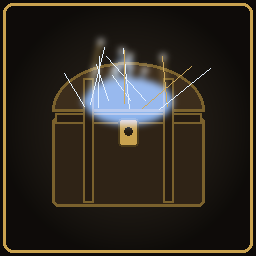
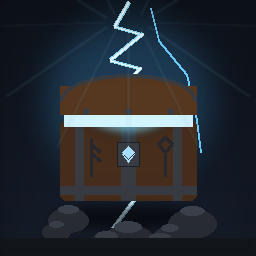
0.4.1: input fields draw what you type
AddComponent runs Awake and OnEnable synchronously, and TMP_InputField binds
its label there. Assigning textComponent afterwards therefore left a field that
stored its value -- the hird got the right name -- but had nothing to render it
with. Input fields are now constructed inactive and activated once every
reference is set, which is the only ordering that lets the component initialise
with a label to bind to. The search box had the same defect.

Also: a visible caret and selection colour so focus is obvious, rich text off
so a typed '<' cannot swallow the line, and the hird name kept in a draft
string because that field lives inside the rebuilt row list and was one redraw
away from being wiped mid-sentence.

diff --git a/KistUI.cs b/KistUI.cs
@@ -41,6 +41,10 @@ namespace ThorsKist
         private static TMP_Text _countLabel;
         private static TMP_InputField _search;
         private static TMP_InputField _hirdName;
+        // The hird-name field lives inside the rebuilt row list, so it is
+        // destroyed and recreated on every redraw. Keeping the draft here means
+        // a redraw mid-sentence does not wipe what was typed.
+        private static string _hirdNameDraft = "";
         private static Button _tabKist;
         private static Button _tabHird;
         private static TMP_FontAsset _font;
@@ -476,9 +480,12 @@ namespace ThorsKist
                 _hirdName = NewInput(row.transform, "Name your hird...");
                 Place(_hirdName.transform as RectTransform, new Vector2(0f, 0.5f), new Vector2(14f, 0f),
                       new Vector2(260f * S, RowH));
+                _hirdName.text = _hirdNameDraft;
+                _hirdName.onValueChanged.AddListener(delegate(string v) { _hirdNameDraft = v; });
                 Button create = NewButton(row.transform, "Found", FontRow, delegate
                 {
-                    KistClient.CreateHird(_hirdName != null ? _hirdName.text : "");
+                    KistClient.CreateHird(_hirdNameDraft);
+                    _hirdNameDraft = "";
                 });
                 Place(create.transform as RectTransform, new Vector2(0f, 0.5f), new Vector2(266f * S + 18f, 0f),
                       new Vector2(78f * S, RowH));
@@ -726,6 +733,14 @@ namespace ThorsKist
             GameObject go = NewPanel("input", parent, new Color(0.05f, 0.05f, 0.045f, 1f));
             AddOutline(go, new Color(0.4f, 0.36f, 0.28f, 1f));
 
+            // Built inactive on purpose. AddComponent runs Awake and OnEnable
+            // immediately, and TMP_InputField binds its label there -- so a
+            // field whose textComponent is assigned afterwards keeps its value
+            // but never draws it. That is exactly the "typing works, box looks
+            // empty" symptom. Deferring activation until every reference is set
+            // means the component initialises with a label to bind to.
+            go.SetActive(false);
+
             GameObject area = new GameObject("area", typeof(RectTransform), typeof(RectMask2D));
             area.transform.SetParent(go.transform, false);
             Stretch(area.transform as RectTransform, 8f, 8f, 2f, 2f);
@@ -733,17 +748,34 @@ namespace ThorsKist
             TMP_Text text = NewText(area.transform, "", FontRow, Parchment, TextAlignmentOptions.Left);
             Stretch(text.rectTransform, 0f, 0f, 0f, 0f);
             text.raycastTarget = true;
+            // An input field owns its own clipping and must not ellipsize, and
+            // rich text would let a typed '<' swallow the rest of the line.
+            text.overflowMode = TextOverflowModes.Overflow;
+            text.richText = false;
 
             TMP_Text hint = NewText(area.transform, placeholder, FontRow, new Color(0.45f, 0.42f, 0.36f, 1f),
                                     TextAlignmentOptions.Left);
             Stretch(hint.rectTransform, 0f, 0f, 0f, 0f);
+            hint.overflowMode = TextOverflowModes.Overflow;
+            hint.richText = false;
 
             TMP_InputField field = go.AddComponent<TMP_InputField>();
             field.textViewport = area.transform as RectTransform;
             field.textComponent = text;
             field.placeholder = hint;
+            field.fontAsset = text.font;
+            field.pointSize = FontRow;
             field.lineType = TMP_InputField.LineType.SingleLine;
             field.characterLimit = 40;
+            field.richText = false;
+            // Without a visible caret there is no way to tell the box has focus.
+            field.customCaretColor = true;
+            field.caretColor = Parchment;
+            field.caretWidth = 2;
+            field.selectionColor = new Color(0.79f, 0.63f, 0.31f, 0.45f);
+
+            go.SetActive(true);
+            field.ForceLabelUpdate();
             return field;
         }
 

diff --git a/Main.cs b/Main.cs
@@ -15,7 +15,7 @@ namespace ThorsKist
         public const string MODNAME = "Thor's Kist";
         public const string AUTHOR = "posixone";
         public const string GUID = "posixone_ThorsKist";
-        public const string VERSION = "0.4.0";
+        public const string VERSION = "0.4.1";
 
         public static Main Instance;
         public static ManualLogSource Log;

diff --git a/CHANGELOG.md b/CHANGELOG.md
@@ -1,5 +1,20 @@
 # Changelog
 
+## 0.4.1
+
+- **Text typed into the hird-name box is visible again.** `AddComponent` runs
+  `Awake` and `OnEnable` immediately, and `TMP_InputField` binds its label
+  there — so assigning `textComponent` afterwards left a field that stored the
+  value but never drew it. That is why the name worked while the box looked
+  empty. Input fields are now built inactive and switched on once every
+  reference is set. The search box had the same defect.
+- Input fields get a visible caret and a selection highlight, so it is obvious
+  when one has focus.
+- The hird name survives a redraw. That field is inside the rebuilt row list,
+  so anything typed was one refresh away from being wiped.
+- Input text no longer parses rich text — a typed `<` would have eaten the rest
+  of the line.
+
 ## 0.4.0
 
 - **Rows are finally small.** `RowH` never did anything: the list's
